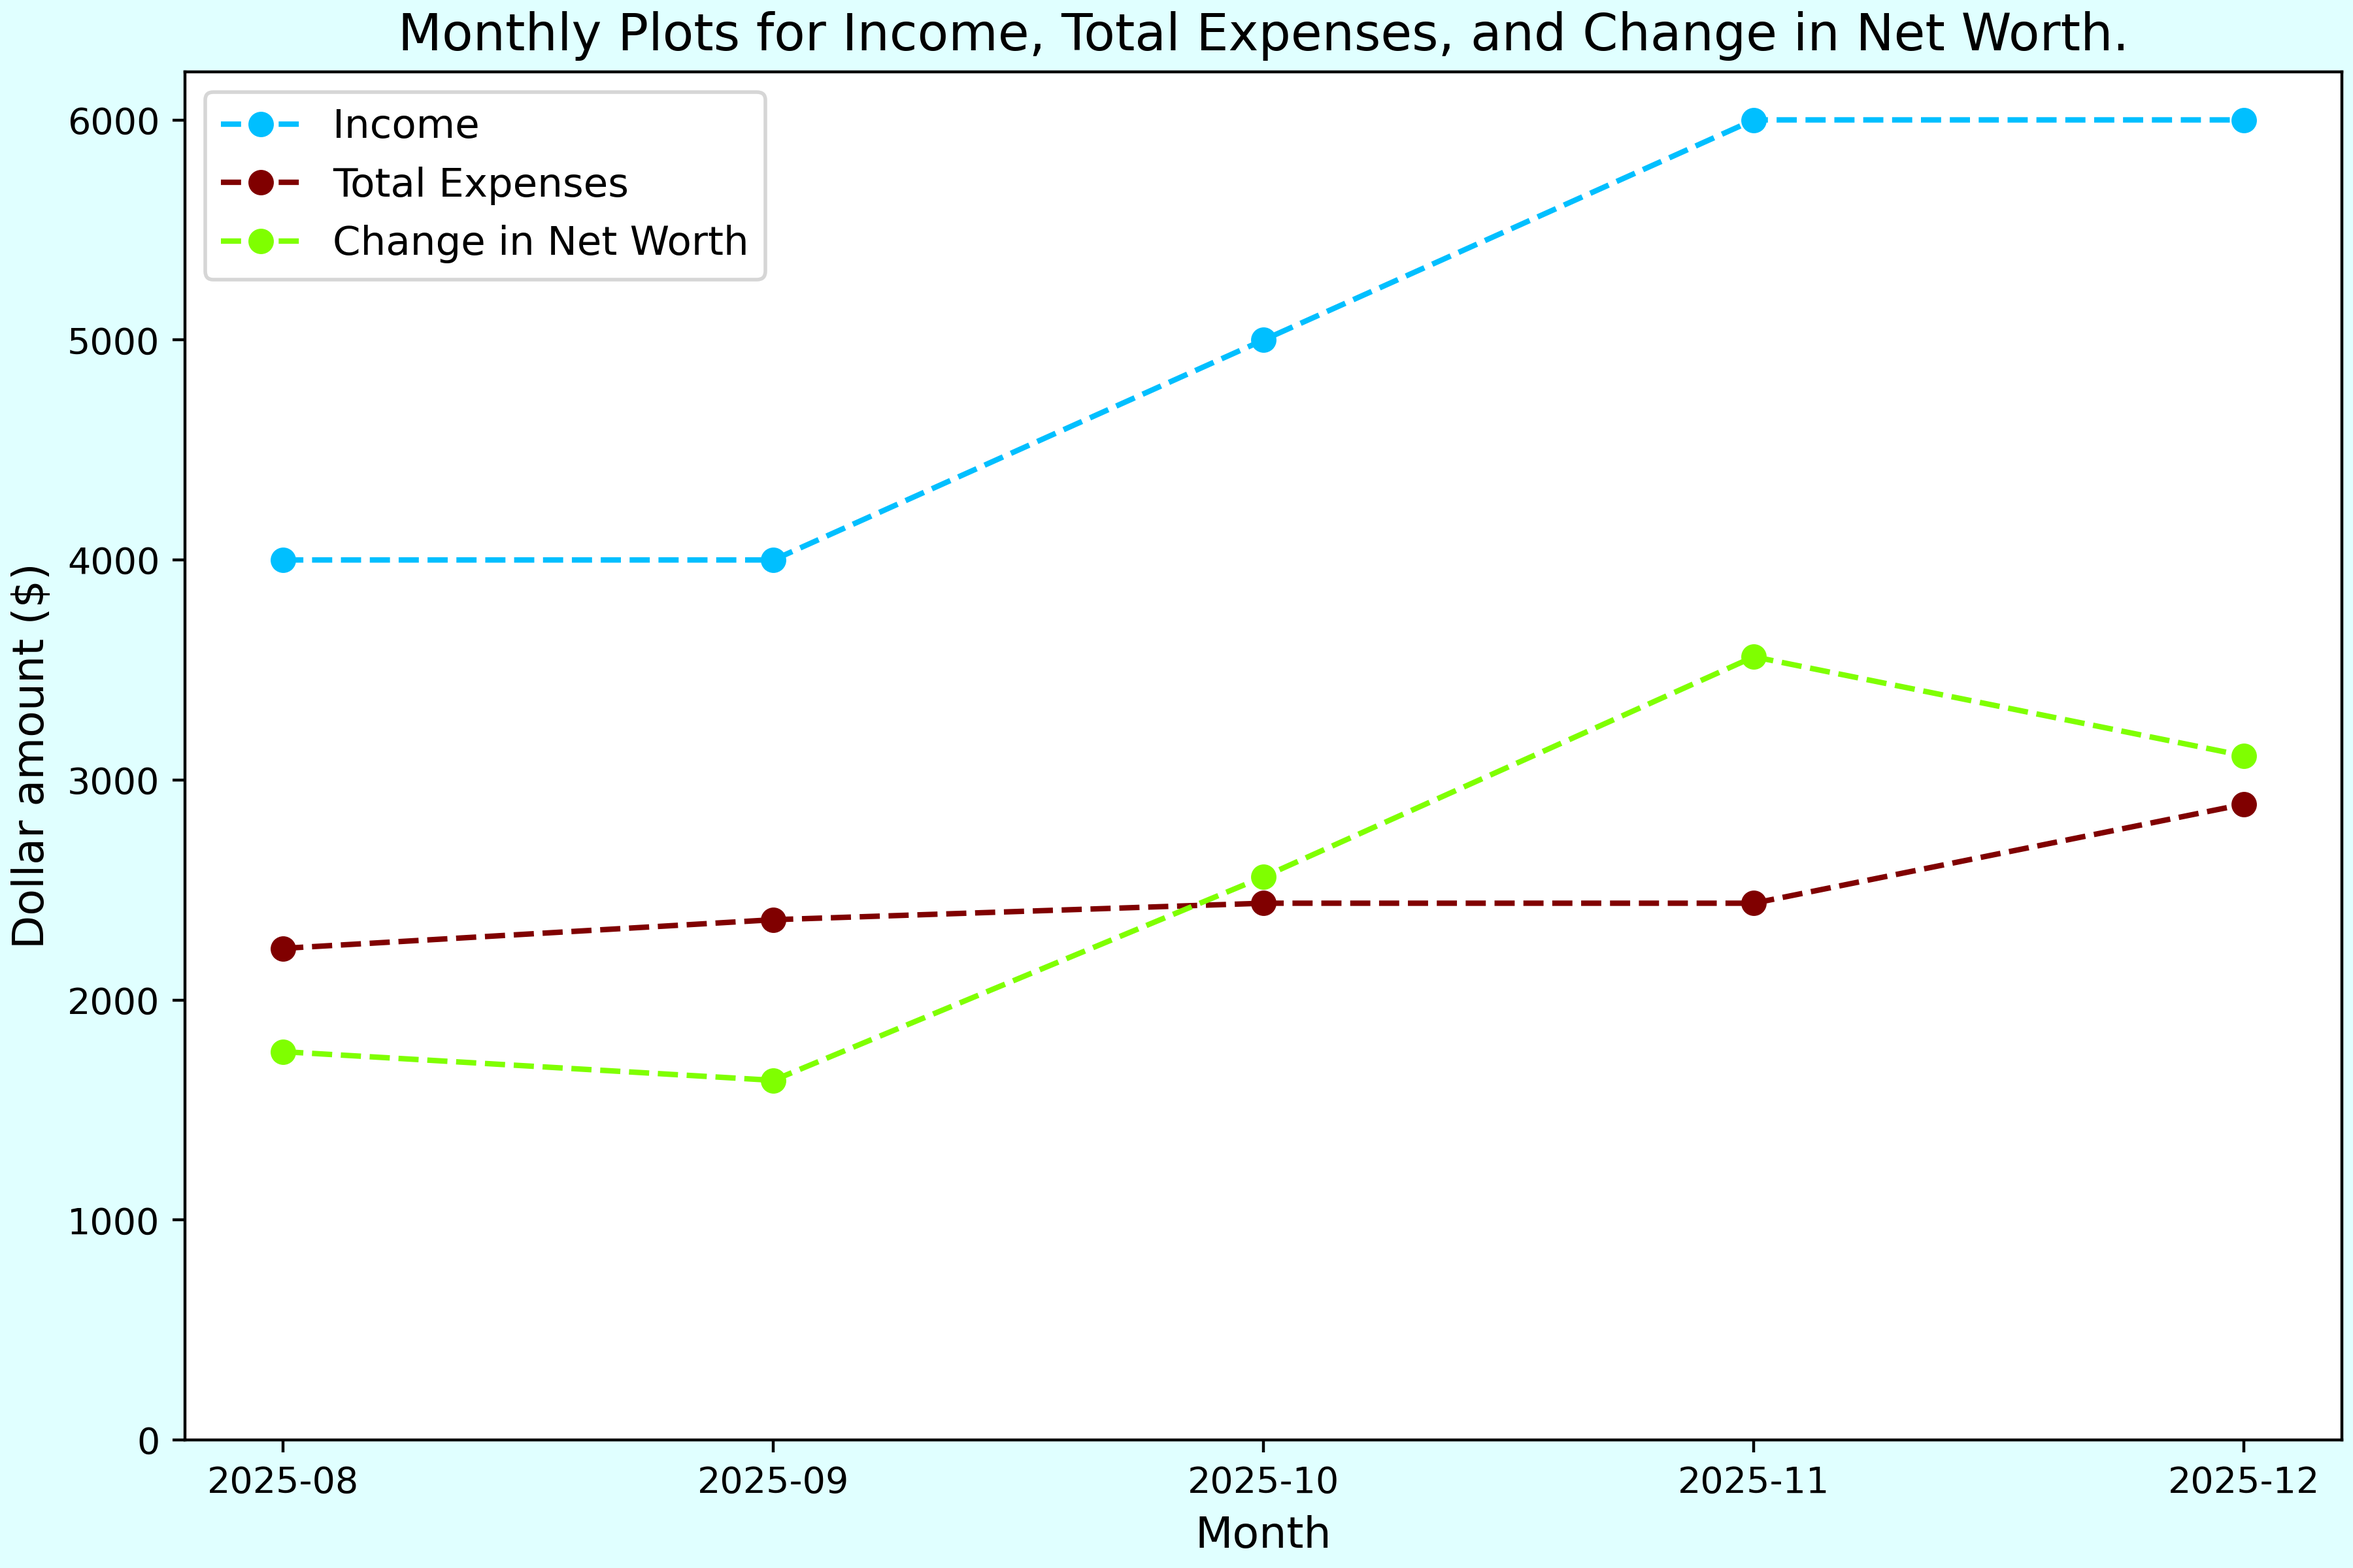
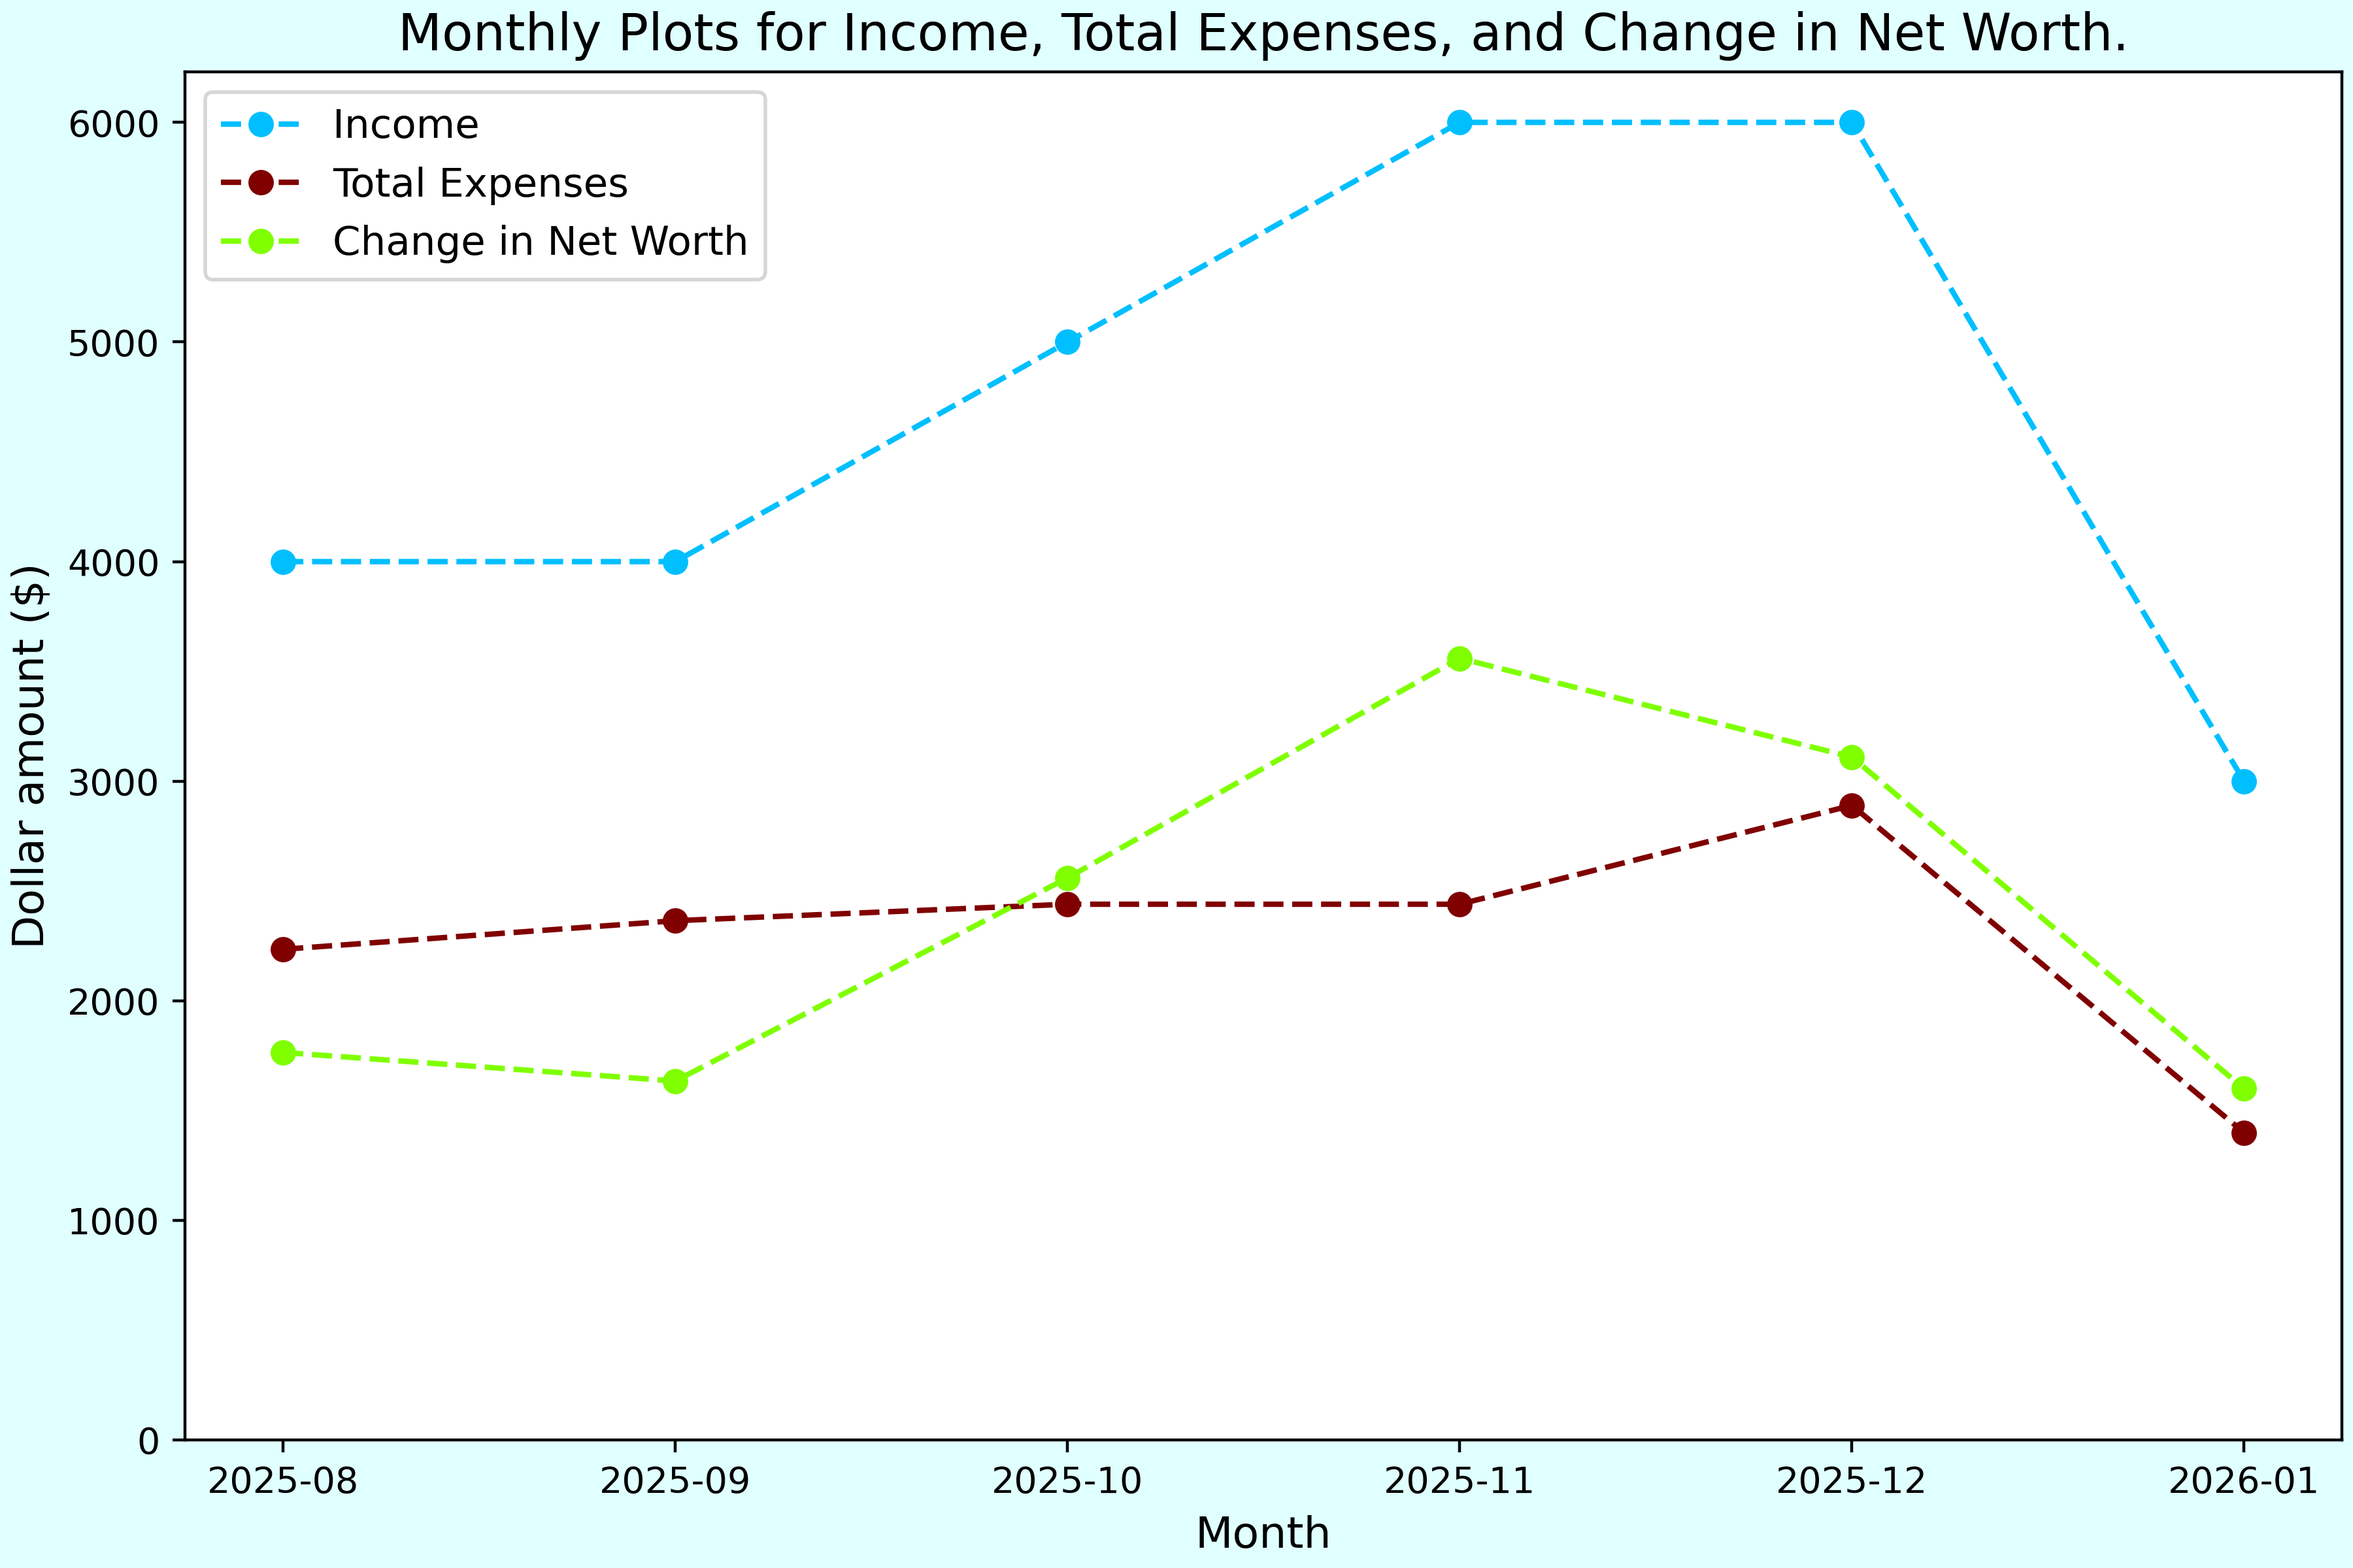
small edits

diff --git a/logger.py b/logger.py
@@ -144,12 +144,12 @@ def calculate_monthly_totals(exp_df: pd.DataFrame, cleaned_df: pd.DataFrame, mon
 
     return update_totals(str(EXP_MONTH), monthly_file, income, total_costs, change_in_net_worth)
 
-def plot_monthly_trends(monthly_expenses: pd.ExcelFile):
+def plot_monthly_trends(monthly_expenses: pd.DataFrame):
     '''
     Takes a monthly trends file (in this code, its variable name is `total_init` below) and plots income, total expenses, and change in net worth as a function of month.
     '''
 
-    df = pd.read_excel(monthly_expenses, names=['Month', 'Income', 'Total Expenses', 'Approx. Change in Net Worth'])
+    df = monthly_expenses
     x, y_inc, y_exp, y_delta = df['Month'], df['Income'], df['Total Expenses'], df['Approx. Change in Net Worth']
 
     plt.figure(figsize=(9,6), facecolor='lightcyan', edgecolor='lightskyblue', layout='constrained')
@@ -165,7 +165,45 @@ def plot_monthly_trends(monthly_expenses: pd.ExcelFile):
     plt.show()
 
 
+expense_dict = {
+    'Expense Name': ['Income',
+                     'Rent'],
+    'Expense Class': [7,
+                      1],
+    'Change in Net Worth': [3000,
+                            -1400]
+}
 
+if __name__ == "__main__":
+    # Clean data to exclude total and income for expense visualization
+
+    expense_init = input(
+        'Name the expense file you would like to update. If you want to initialize a file, write None.')  # takes user input
+    totals_init = input(
+        'Name the monthly totals file you would like to use/update. If you want to initialize a file, write None.')
+
+    if expense_init == 'None':  # Change None inputs to `None`.
+        expense_init = None
+
+    if totals_init == 'None':
+        totals_init = None
+    
+
+    expense_file = initialize(expense_init)
+    expense_file = update_expenses(
+        expense_file, expense_dict)  # update expenses log
+
+    cleaned_expenses = clean_expenses(expense_file)
+
+    monthly_totals = calculate_monthly_totals(
+        expense_file, cleaned_expenses, totals_init)
+    
+    plot_monthly_trends(monthly_totals)
+    expense_file.to_excel(str(EXP_MONTH) + '.xlsx', index=False)
+    monthly_totals.to_excel('monthly totals.xlsx', index=False)
+
+
+# # # Example expense dictionaries
 
 # expense_dict = {
 #     'Expense Name': ['Income 12/1-12/15',
@@ -191,44 +229,17 @@ def plot_monthly_trends(monthly_expenses: pd.ExcelFile):
 #                             -80]
 #     }
 
-expense_dict = {
-    'Expense Name': ['Income 12/15-12/31',
-                     'Groceries',
-                     'Gas',
-                     'Registration for Half Marathon'],
-    'Expense Class': [7,
-                      1,
-                      6,
-                      2],
-    'Change in Net Worth': [3000,
-                            -250,
-                            -70,
-                            -150]
-}
-
-if __name__ == "__main__":
-    # Clean data to exclude total and income for expense visualization
-
-    expense_init = input(
-        'Name the expense file you would like to update. If you want to initialize a file, write None.')  # takes user input
-    totals_init = input(
-        'Name the monthly totals file you would like to use/update. If you want to initialize a file, write None.')
-
-    if expense_init == 'None':  # Change None inputs to `None`.
-        expense_init = None
-
-    if totals_init == 'None':
-        totals_init = None
-    
-    plot_monthly_trends(totals_init)
-
-    # expense_file = initialize(expense_init)
-    # expense_file = update_expenses(
-    #     expense_file, expense_dict)  # update expenses log
-
-    # cleaned_expenses = clean_expenses(expense_file)
-
-    # monthly_totals = calculate_monthly_totals(
-    #     expense_file, cleaned_expenses, totals_init)
-    # expense_file.to_excel(str(EXP_MONTH) + '.xlsx', index=False)
-    # monthly_totals.to_excel('monthly totals.xlsx', index=False)
+# expense_dict = {
+#     'Expense Name': ['Income 12/15-12/31',
+#                      'Groceries',
+#                      'Gas',
+#                      'Registration for Half Marathon'],
+#     'Expense Class': [7,
+#                       1,
+#                       6,
+#                       2],
+#     'Change in Net Worth': [3000,
+#                             -250,
+#                             -70,
+#                             -150]
+# }
